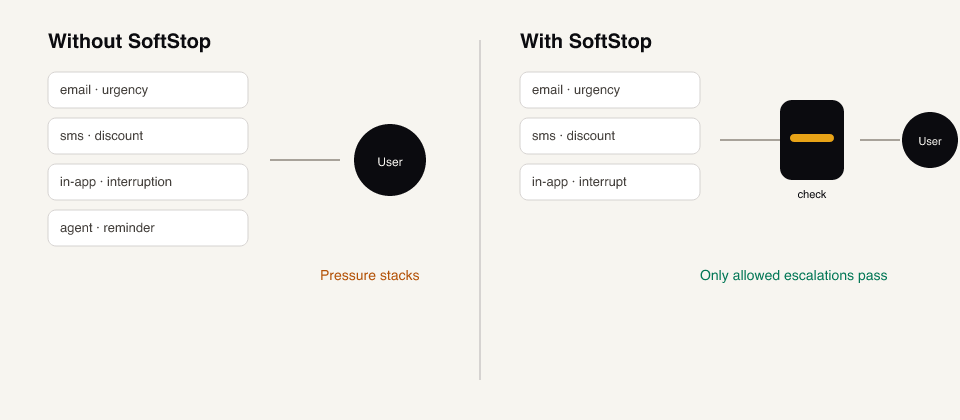
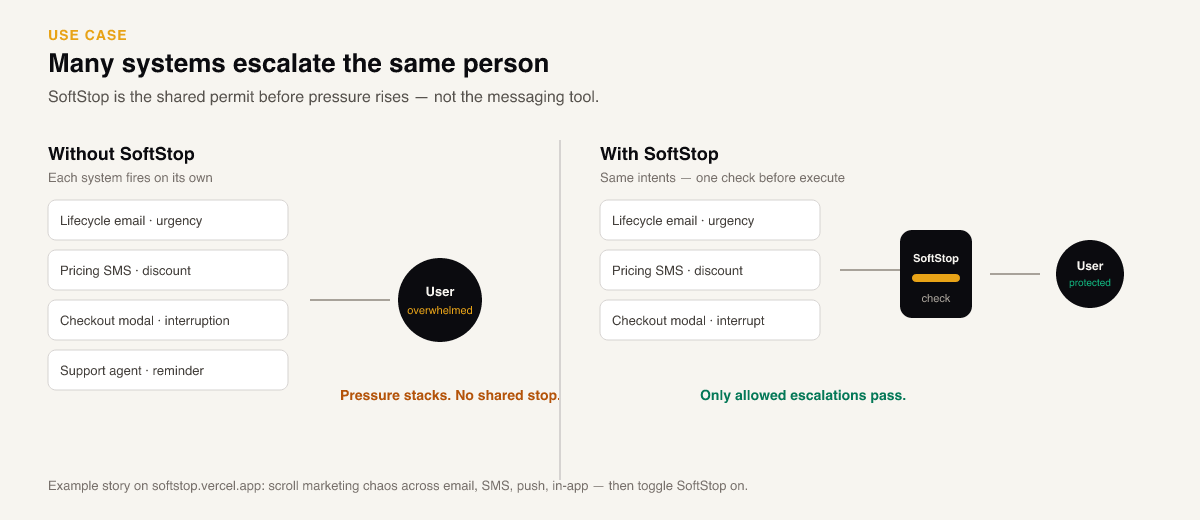
Clarify SoftStop use cases in README, diagrams, and demo copy.
Frame the scroll story as a marketing-chaos example; SoftStop is the shared permit, not the messenger.

diff --git a/demo/index.html b/demo/index.html
@@ -294,10 +294,10 @@
                 <img src="assets/softstop-mark-dark.png" width="40" height="40" alt="" />
                 <div>
                     <div class="font-bold text-lg">SoftStop</div>
-                    <div class="text-xs text-slate-500">Multi-Channel Demo</div>
+                    <div class="text-xs text-slate-500">Example: marketing chaos</div>
                 </div>
             </div>
-            <p class="text-sm text-slate-400">Scroll through <strong class="text-white">44 days</strong> of pressure across <strong class="text-white">all channels</strong>.</p>
+            <p class="text-sm text-slate-400">Scroll <strong class="text-white">44 days</strong> of stacked escalations. SoftStop is the permit layer — not the messenger.</p>
         </div>
         
         <!-- User Selector -->
@@ -510,26 +510,31 @@
 
         <section class="py-16 md:py-20 border-y border-white/5 bg-surface/40">
             <div class="max-w-4xl mx-auto px-6 md:px-12">
-                <h2 class="font-display text-2xl md:text-3xl font-semibold text-paper text-center mb-3">Feel 44 days of pressure</h2>
-                <p class="text-center text-slate-400 mb-10 max-w-2xl mx-auto">
-                    Email, SMS, push, and in-app stack on the same person. Toggle SoftStop on — only allowed escalations pass.
+                <p class="text-center text-[11px] tracking-[0.2em] uppercase text-stop-amber font-semibold mb-3">Example story</p>
+                <h2 class="font-display text-2xl md:text-3xl font-semibold text-paper text-center mb-3">Marketing chaos on one person</h2>
+                <p class="text-center text-slate-400 mb-4 max-w-2xl mx-auto">
+                    The timeline below is a <span class="text-paper">demo of the problem</span>: email, SMS, push, and in-app stacking with no shared stop.
+                    SoftStop is not the email tool — it’s the permit layer you’d put under all of them.
+                </p>
+                <p class="text-center text-slate-500 text-sm mb-10 max-w-xl mx-auto">
+                    Same SoftStop contract applies to checkout modals and agents. This story just makes the failure mode obvious.
                 </p>
                 <div class="grid grid-cols-1 md:grid-cols-3 gap-6 text-sm">
                     <div>
-                        <div class="text-stop-amber font-semibold mb-1">Multi-channel</div>
-                        <p class="text-slate-400">Lifecycle, pricing, UI, and agents hit the same user without shared state.</p>
+                        <div class="text-stop-amber font-semibold mb-1">Marketing + CRM</div>
+                        <p class="text-slate-400">Lifecycle, promos, win-back — this demo’s story.</p>
                     </div>
                     <div>
-                        <div class="text-stop-amber font-semibold mb-1">Toggle SoftStop</div>
-                        <p class="text-slate-400">Scroll with SoftStop off, then on. Watch pressure and blocks diverge.</p>
+                        <div class="text-stop-amber font-semibold mb-1">Product UI</div>
+                        <p class="text-slate-400">Same SoftStop gate for modals and banners.</p>
                     </div>
                     <div>
-                        <div class="text-stop-amber font-semibold mb-1">Authorize only</div>
-                        <p class="text-slate-400">Not Braze. Not an MCP firewall. Just check / record before pressure rises.</p>
+                        <div class="text-stop-amber font-semibold mb-1">Agents</div>
+                        <p class="text-slate-400">Support/sales escalate only if <span class="font-mono text-xs text-paper">check</span> allows.</p>
                     </div>
                 </div>
                 <div class="mt-10 text-center">
-                    <a href="#demo" class="text-stop-amber font-semibold hover:underline underline-offset-4">Start the timeline →</a>
+                    <a href="#demo" class="text-stop-amber font-semibold hover:underline underline-offset-4">Start the example timeline →</a>
                 </div>
             </div>
         </section>
@@ -540,10 +545,10 @@
         <!-- Demo intro -->
         <section class="min-h-[70vh] flex items-center justify-center pt-16 lg:pt-8 pb-12">
             <div class="text-center px-6 md:px-12 max-w-2xl">
-                <p class="text-[11px] tracking-[0.2em] uppercase text-stop-amber font-semibold mb-4">Interactive timeline</p>
-                <h1 class="font-display text-3xl md:text-5xl font-semibold tracking-tight mb-4">Multi-channel pressure</h1>
-                <p class="text-lg text-slate-400 mb-8 leading-relaxed">
-                    Scroll 44 days of email, SMS, push, and in-app. Toggle SoftStop at the top anytime.
+                <p class="text-[11px] tracking-[0.2em] uppercase text-stop-amber font-semibold mb-4">Example · marketing chaos</p>
+                <h1 class="font-display text-3xl md:text-5xl font-semibold tracking-tight mb-4">44 days, one user, every channel</h1>
+                <p class="text-lg text-slate-400 mb-6 leading-relaxed">
+                    Scroll the story. Toggle SoftStop at the top. You’re watching what happens when escalations don’t share a permit — then what SoftStop changes.
                 </p>
                 <div class="flex flex-wrap justify-center gap-2 mb-10 text-xs md:text-sm">
                     <span class="border border-white/15 text-slate-300 px-3 py-1 rounded-full">Email</span>

diff --git a/README.md b/README.md
@@ -24,15 +24,35 @@
   <a href="CHANGELOG.md"><img src="https://img.shields.io/badge/version-0.1.0-E8A317?style=flat-square" alt="0.1.0" /></a>
 </p>
 
+## What SoftStop is
+
+SoftStop answers one question before an escalation runs:
+
+> Is it allowed to raise pressure on **this user**, with **this action type**, **right now**?
+
+It does **not** send email, write copy, pick offers, or replace Braze / Resend / your agents. Those systems still decide *what* to say. SoftStop decides whether they’re allowed to push.
+
+| SoftStop does | SoftStop does not |
+|---|---|
+| `check` → allow or block | Send messages |
+| `record` the outcome | Personalize content |
+| Enforce cooldowns & caps across systems | Optimize conversion |
+
+## The use case (in one picture)
+
+Lifecycle email, pricing SMS, checkout modal, and a support agent can all hit the **same person** with no shared stop signal. SoftStop sits in the middle as a tiny authorize-only gate.
+
 <p align="center">
-  <img src="docs/brand/softstop-cover.png" alt="SoftStop — shared permit before pressure" width="100%" />
+  <img src="docs/brand/softstop-before-after.png" alt="Without SoftStop many systems stack pressure on one user; with SoftStop only allowed escalations pass" width="100%" />
 </p>
 
 <p align="center">
-  <img src="docs/brand/softstop-before-after.png" alt="Without SoftStop pressure stacks; with SoftStop only allowed escalations pass" width="100%" />
+  <img src="docs/brand/softstop-use-cases.png" alt="SoftStop fits marketing plus CRM, product UI, and agents" width="100%" />
 </p>
 
-Scroll the full story (email, SMS, push, in-app stacking → SoftStop on): **[Live demo](https://softstop.vercel.app)**
+### Example story (live demo)
+
+The [live demo](https://softstop.vercel.app) is a **marketing-chaos example**: scroll ~44 days of email / SMS / push / in-app stacking on one person, then toggle SoftStop on. Same SoftStop contract applies to product UI and agents — the demo just makes the failure mode obvious.
 
 ## Get started
 
@@ -87,18 +107,19 @@ if (!check.allowed) {
 
 > Hosted APIs use `/api` instead of `/v1`. `GOVERNOR_API_URL` is accepted as a legacy alias for `SOFTSTOP_API_URL`.
 
-| actionType | Meaning |
-|---|---|
-| `urgency` | Time pressure |
-| `discount` | Price / promo |
-| `interruption` | Modal / popup |
-| `reminder` | Soft nudge |
+| actionType | Meaning | Typical surface |
+|---|---|---|
+| `urgency` | Time pressure | “ends tonight” email / push |
+| `discount` | Price / promo | SMS offer, coupon modal |
+| `interruption` | Modal / popup | Checkout upsell, in-app dialog |
+| `reminder` | Soft nudge | Agent follow-up, badge |
 
 ## When to use
 
-- Many systems (lifecycle, pricing, UI, agents) can push the **same** user and don't share state
-- Platform / marketplace agents collide with your own automations
-- You need a tiny gate under Braze/Resend/modals — not another messaging platform or MCP tool firewall
+- **Marketing + CRM** — lifecycle, promo, and win-back tools don’t share caps
+- **Product UI** — modals/banners fire while email/SMS are also pushing
+- **Agents** — support/sales agents escalate humans without seeing other pressure
+- **Not SoftStop** — you need a messaging platform, CDP, or MCP tool firewall
 
 ## Adoption
 
@@ -113,7 +134,7 @@ Details: [Adoption contract](docs/ADOPTION_CONTRACT.md)
 
 - [Node.js](examples/nodejs) · [Python](examples/python) · [Browser](examples/browser)
 - [Agent touchpoint](examples/agent-touchpoint) — agent calls SoftStop before escalating a human
-- [Scroll demo](demo/index.html) — the product story
+- [Scroll demo](https://softstop.vercel.app) — marketing-chaos example story
 
 ## Docs
 

diff --git a/docs/brand/README.md b/docs/brand/README.md
@@ -19,8 +19,9 @@ Soft halt bar through a geometric **S** — permit/block without looking like a 
 | [softstop-mark-1024.png](softstop-mark-1024.png) / [softstop-mark-dark-1024.png](softstop-mark-dark-1024.png) | High-res |
 | [softstop-wordmark.svg](softstop-wordmark.svg) | README / demo header |
 | [softstop-cover.png](softstop-cover.png) | Social / README hero (~1200×630) |
-| [softstop-before-after.png](softstop-before-after.png) | Story proof |
-| [softstop-cover.svg](softstop-cover.svg) / [softstop-before-after.svg](softstop-before-after.svg) | Vector sources |
+| [softstop-before-after.png](softstop-before-after.png) | Use-case diagram (many systems → one user) |
+| [softstop-use-cases.png](softstop-use-cases.png) | Marketing / UI / agents strip |
+| [softstop-cover.svg](softstop-cover.svg) / [softstop-before-after.svg](softstop-before-after.svg) / [softstop-use-cases.svg](softstop-use-cases.svg) | Vector sources |
 
 ## Do
 
